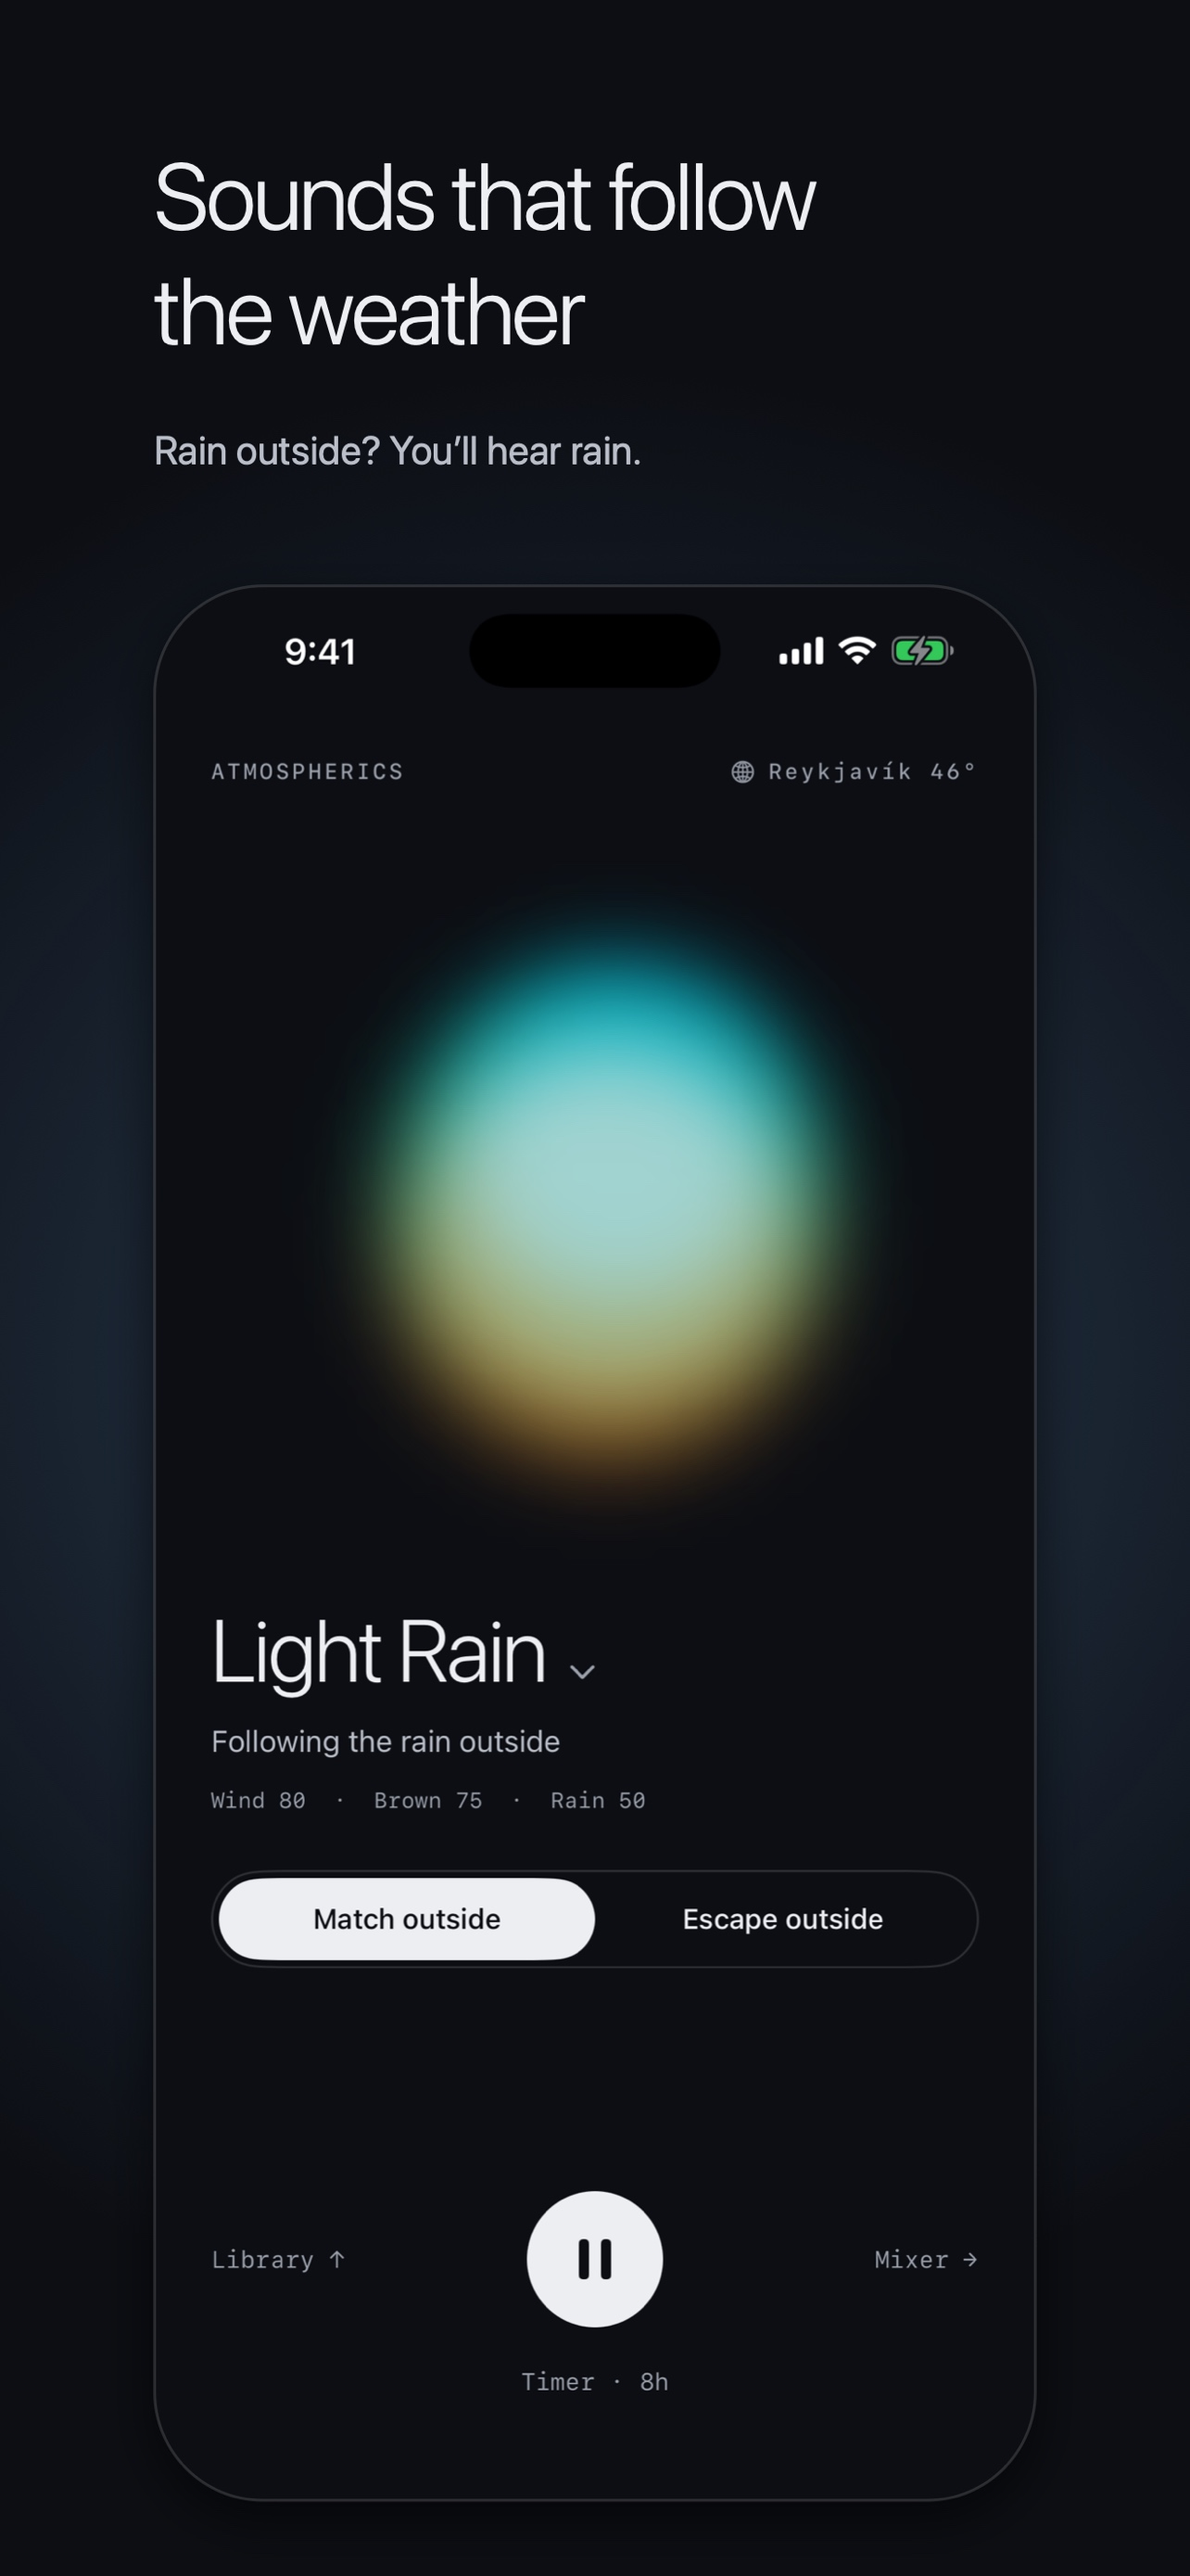
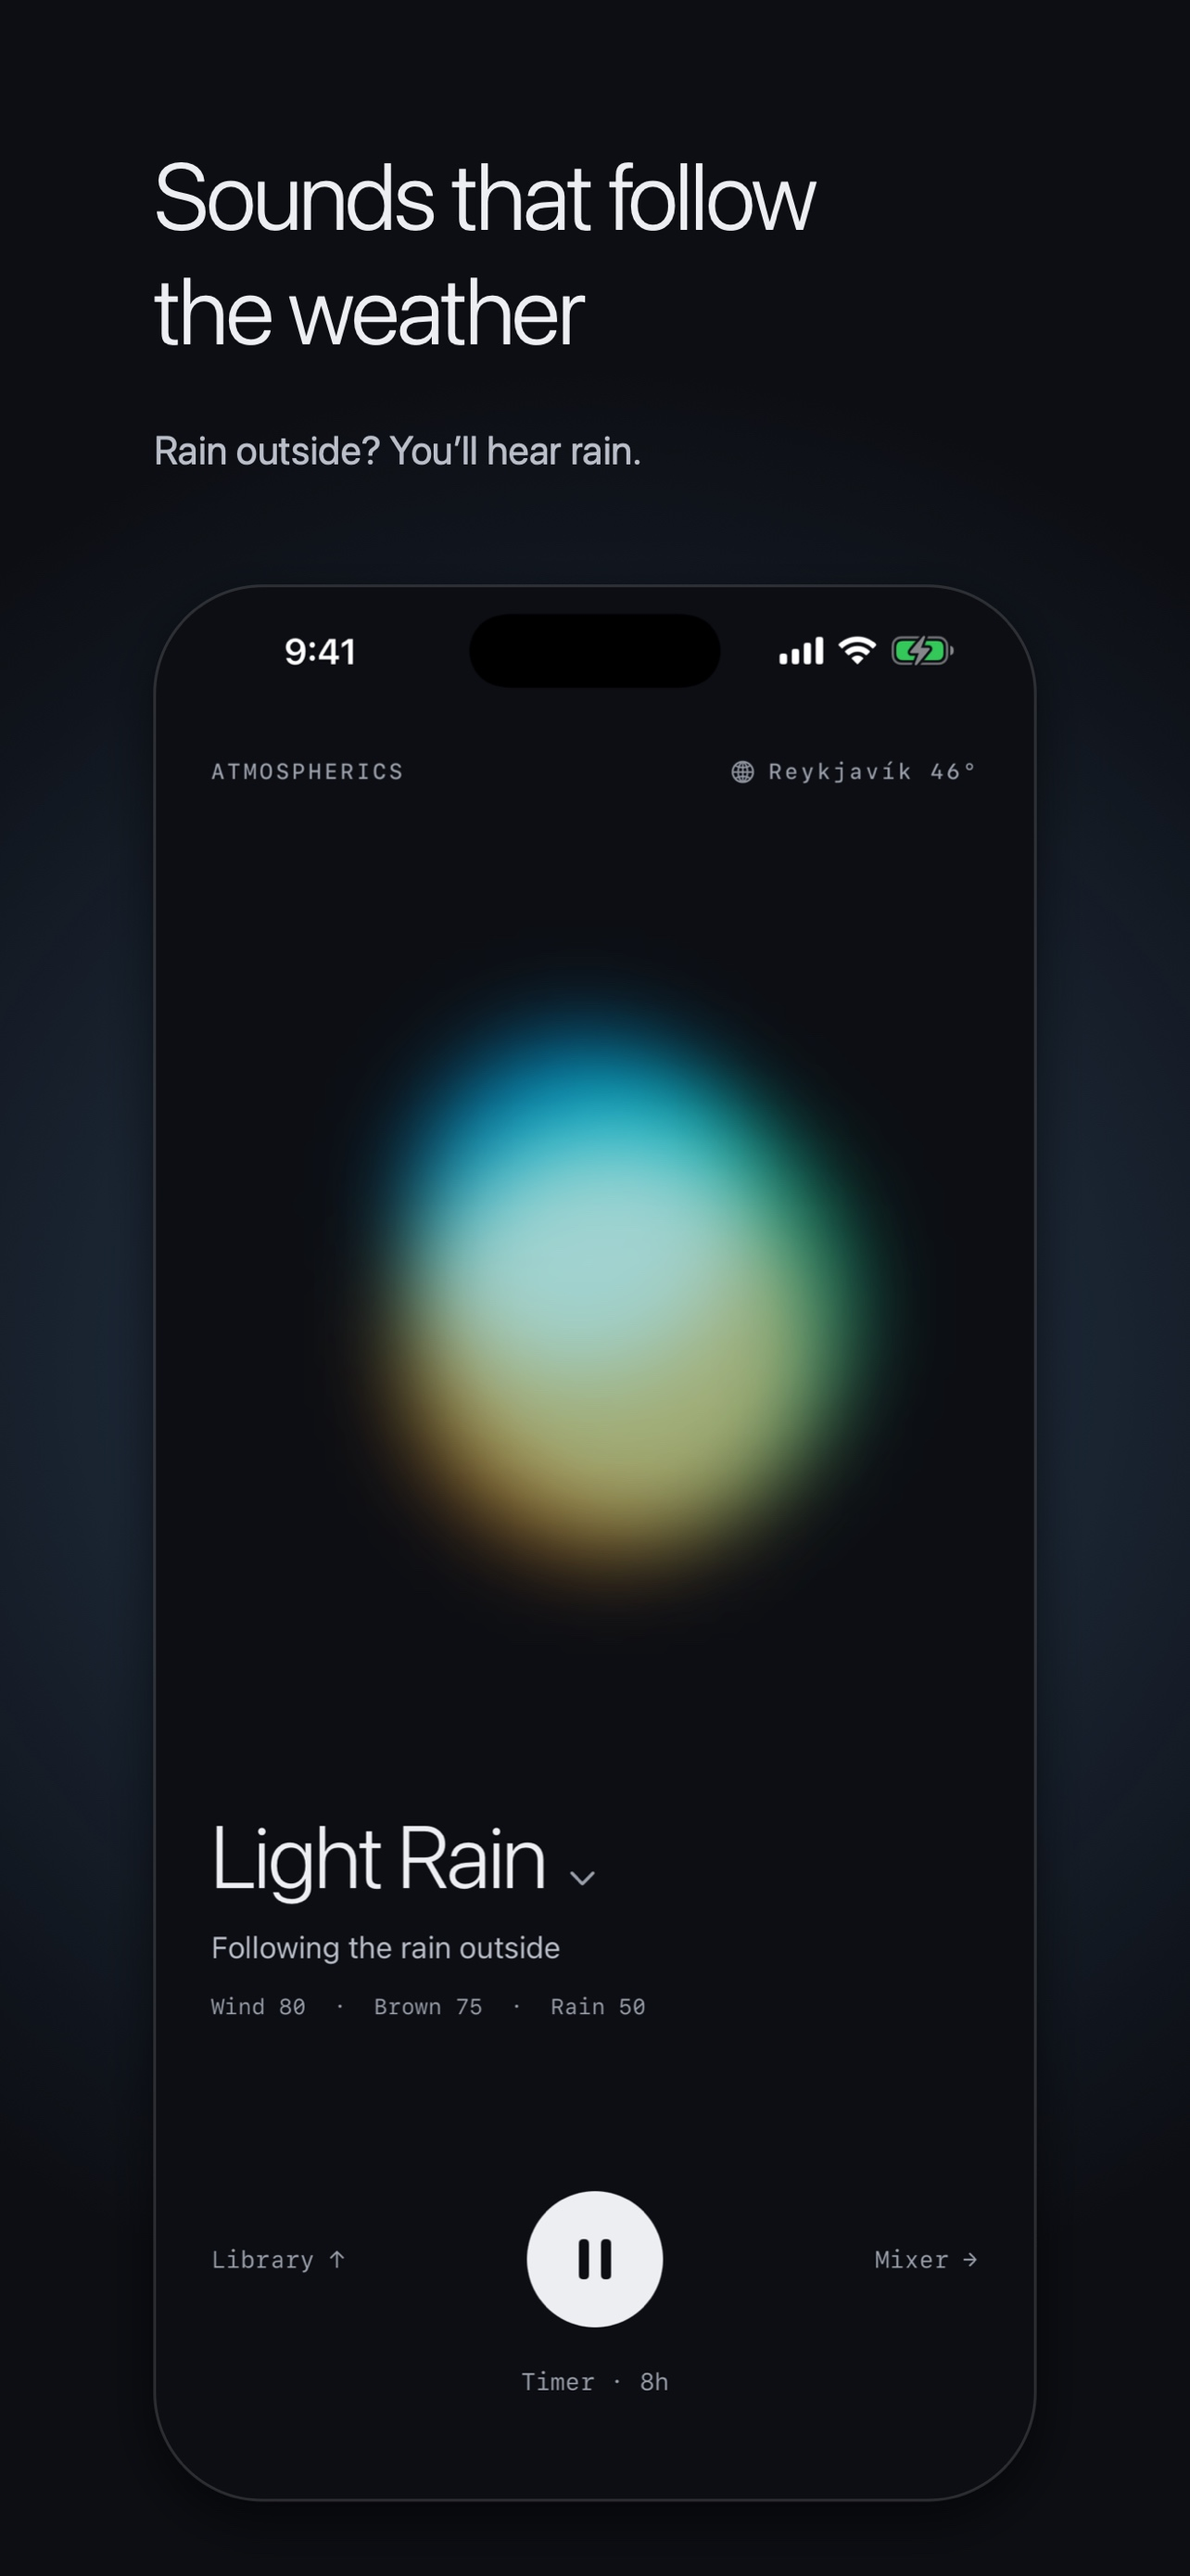
Calmer home screen; fixes from testing (build 6)
- Match/Escape pill removed. Away from home, a quiet "← Back to <home>"
  line appears; an edited home mix offers "↺ Follow the weather"
- Halo takes the spare height so the text sits just above the controls;
  fixed-height slots mean swiping between places never shifts layout
- Choosing a place within 40 km of home just goes home; shuffle skips it
- While a chosen place's weather loads, show its name instead of
  "Finding somewhere else…"; retry the places request after 15 s on failure
- Near-silent (<5%) sounds hidden from the layer readout
- "Opposite of home" renamed "Most different"
- Screenshots 1 and 3 re-shot

Changed region(s): [[0.1558, 0.3405, 0.7477, 0.7739], [0.5919, 0.743, 0.7477, 0.7739], [0.1558, 0.6192, 0.1869, 0.6501]]

diff --git a/Atmospherics/Mixer.swift b/Atmospherics/Mixer.swift
@@ -1,3 +1,4 @@
+import CoreLocation
 import AVFoundation
 import MediaPlayer
 import SwiftUI
@@ -169,17 +170,21 @@ final class Mixer {
                 guard let home else { return WeatherSummary(place: "", temp: "", line: "", head: head) }
                 let line = following[.match] == true
                     ? "Following \(home.subject) outside"
-                    : "Tap Match outside to follow the weather"
+                    : "Your own mix, made here"
                 return WeatherSummary(place: home.place, temp: home.temperature, line: line, head: head)
             }
         case .escape:
             guard let escape else {
+                if let pinned = pinnedPlace {
+                    return WeatherSummary(place: pinned.title, temp: "", line: "Checking the weather in \(pinned.name)…",
+                                          head: "Escaping to \(pinned.name)")
+                }
                 return WeatherSummary(place: "", temp: "", line: "Finding somewhere else…", head: "Escaping outside")
             }
             let c = escape.conditions
             let line: String
             if following[.escape] != true {
-                line = "Tap Escape outside to follow \(escape.place.name)"
+                line = "Your own mix, made in \(escape.place.name)"
             } else if pinnedPlace != nil {
                 line = "\(c.mixName) in \(escape.place.name) right now"
             } else {
@@ -204,7 +209,7 @@ final class Mixer {
 
     /// "Brown 70  ·  Rain 45  ·  Wind 25"
     var layersLine: String {
-        byVolume.map { "\($0.kind.short) \(Int(($0.volume * 100).rounded()))" }.joined(separator: "  ·  ")
+        byVolume.filter { $0.volume >= 0.05 }.map { "\($0.kind.short) \(Int(($0.volume * 100).rounded()))" }.joined(separator: "  ·  ")
     }
 
     var unusedSounds: [SoundKind] {
@@ -309,6 +314,7 @@ final class Mixer {
 
         do {
             let (coordinate, place) = try await location.current()
+            homeCoordinate = coordinate
             home = try await weatherService.conditions(at: coordinate, place: place)
             weatherState = .ready
         } catch {
@@ -318,6 +324,13 @@ final class Mixer {
         if let options = try? await weatherService.places() {
             placeConditions = Dictionary(uniqueKeysWithValues: zip(Place.all.map(\.name), options))
             chooseEscape()
+        } else {
+            // Don't wait 20 minutes for the next try if places didn't load.
+            lastWeatherFetch = nil
+            Task { [weak self] in
+                try? await Task.sleep(for: .seconds(15))
+                await self?.refreshWeather()
+            }
         }
 
         applyWeather(to: .match, animated: true)
@@ -338,6 +351,14 @@ final class Mixer {
 
     /// Goes to a place: pins it, switches to Escape, and glides the field to its sound.
     func select(_ place: Place) {
+        // Choosing the place you're already in is just going home.
+        if isNearHome(place) {
+            pinnedPlace = nil
+            defaults.removeObject(forKey: "pinnedPlace")
+            goHome()
+            if !isPlaying { play() }
+            return
+        }
         pinnedPlace = place
         defaults.set(place.name, forKey: "pinnedPlace")
         chooseEscape()
@@ -352,9 +373,40 @@ final class Mixer {
         if !isPlaying { play() }
     }
 
+    /// Comes back from a place to the local weather.
+    func goHome() {
+        if mode != .match {
+            transition?.cancel()
+            mode = .match
+            defaults.set(Mode.match.rawValue, forKey: "mode")
+            apply()
+        }
+        setFollowing(true, for: .match)
+        applyWeather(to: .match, animated: true)
+        updateNowPlaying()
+    }
+
+    /// Hands an edited field back to the weather, without leaving the place.
+    func followWeatherAgain() {
+        setFollowing(true, for: mode)
+        applyWeather(to: mode, animated: true)
+    }
+
+    /// Where home is on the map, to tell when a chosen place is really just home.
+    @ObservationIgnored private var homeCoordinate: CLLocationCoordinate2D?
+
+    private func isNearHome(_ place: Place) -> Bool {
+        guard let h = homeCoordinate else { return false }
+        let here = CLLocation(latitude: h.latitude, longitude: h.longitude)
+        return here.distance(from: CLLocation(latitude: place.latitude, longitude: place.longitude)) < 40_000
+    }
+
+    /// Where "home" is, for the "Back to …" line.
+    var homeName: String { home?.place ?? "home" }
+
     /// Jumps to a random place other than the current one.
     func shuffle() {
-        let others = Place.all.filter { $0 != escape?.place && placeConditions[$0.name] != nil }
+        let others = Place.all.filter { $0 != escape?.place && placeConditions[$0.name] != nil && !isNearHome($0) }
         guard let place = others.randomElement() ?? Place.all.randomElement() else { return }
         shuffleCount += 1
         select(place)

diff --git a/Atmospherics/NowPlayingView.swift b/Atmospherics/NowPlayingView.swift
@@ -32,8 +32,7 @@ struct NowPlayingView: View {
             .foregroundStyle(Theme.mono)
 
             Halo(orbs: mixer.byVolume)
-                .frame(height: 380)
-                .padding(.top, 20)
+                .frame(minHeight: 300, maxHeight: .infinity)
                 .offset(x: swipe)
                 .opacity(1 - Double(min(abs(swipe), 160) / 320))
                 .contentShape(Rectangle())
@@ -66,18 +65,42 @@ struct NowPlayingView: View {
             Text(mixer.weather.line)
                 .font(Theme.body(15))
                 .foregroundStyle(Theme.secondary)
+                .lineLimit(1)
+                .minimumScaleFactor(0.8)
                 .padding(.top, 10)
 
+            // Always two lines tall, so places with more or fewer sounds don't shift the layout.
             Text(mixer.layersLine)
                 .font(Theme.mono(11))
                 .lineSpacing(4)
                 .foregroundStyle(Theme.mono)
+                .lineLimit(2, reservesSpace: true)
                 .padding(.top, 14)
 
-            ModeToggle()
-                .padding(.top, 28)
+            // Away: a quiet way home. At home but edited: a way back to following the weather.
+            // A fixed-height slot: the line fades in and out without moving anything.
+            ZStack(alignment: .leading) {
+                Text(" ").hidden()
+                if mixer.mode == .escape {
+                    Button { withAnimation(.smooth(duration: 0.35)) { mixer.goHome() } } label: {
+                        Text("← Back to \(mixer.homeName)")
+                    }
+                } else if mixer.following[.match] != true {
+                    Button { mixer.followWeatherAgain() } label: {
+                        Text("↺ Follow the weather")
+                    }
+                }
+            }
+            .frame(maxWidth: .infinity, alignment: .leading)
+            .font(Theme.mono(12))
+            .foregroundStyle(Theme.text.opacity(0.8))
+            .buttonStyle(.plain)
+            .padding(.vertical, 8)
+            .contentShape(Rectangle())
+            .padding(.top, 14)
+            .sensoryFeedback(.selection, trigger: mixer.mode)
 
-            Spacer(minLength: 16)
+            Spacer().frame(height: 28)
 
             VStack(spacing: 14) {
                 HStack {
@@ -208,38 +231,6 @@ private struct Breathing<Content: View>: View {
                     expanded = true
                 }
             }
-    }
-}
-
-/// "Match outside / Escape outside" segmented pill.
-struct ModeToggle: View {
-    @Environment(Mixer.self) private var mixer
-
-    var body: some View {
-        HStack(spacing: 0) {
-            segment("Match outside", .match)
-            segment("Escape outside", .escape)
-        }
-        .padding(4)
-        .overlay(Capsule().strokeBorder(Theme.hairline, lineWidth: 1))
-        .sensoryFeedback(.selection, trigger: mixer.mode)
-    }
-
-    private func segment(_ label: String, _ mode: Mode) -> some View {
-        let selected = mixer.mode == mode
-        return Button {
-            withAnimation(.smooth(duration: 0.35)) { mixer.setMode(mode) }
-        } label: {
-            Text(label)
-                .font(Theme.body(14, .medium))
-                .foregroundStyle(selected ? Theme.background : Theme.text)
-                .frame(maxWidth: .infinity)
-                .padding(.vertical, 12)
-                .background(Capsule().fill(selected ? Theme.text : .clear))
-                .contentShape(Capsule())
-        }
-        .buttonStyle(.plain)
-        .accessibilityAddTraits(selected ? .isSelected : [])
     }
 }
 

diff --git a/Atmospherics/GlobeView.swift b/Atmospherics/GlobeView.swift
@@ -29,7 +29,7 @@ struct GlobeView: View {
                 pill("Globe", selected: !showList) { showList = false }
                 pill("List", selected: showList) { showList = true }
                 Spacer()
-                pill(mixer.pinnedPlace == nil ? "Opposite of home ✓" : "Opposite of home", selected: false) {
+                pill(mixer.pinnedPlace == nil ? "Most different ✓" : "Most different", selected: false) {
                     mixer.unpinPlace()
                     dismiss()
                 }
